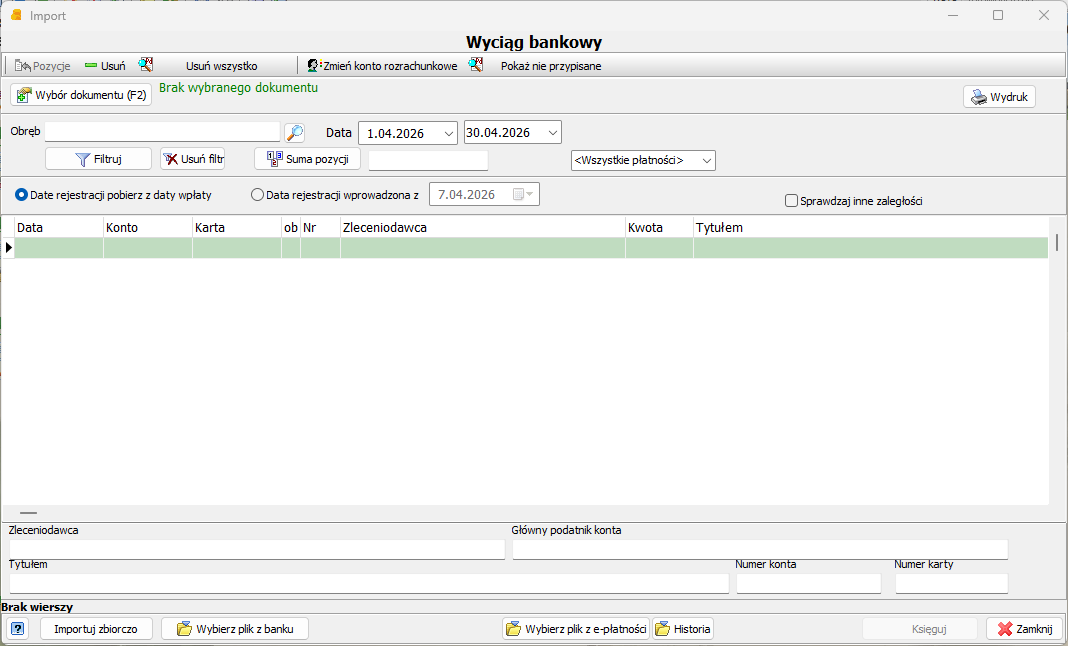
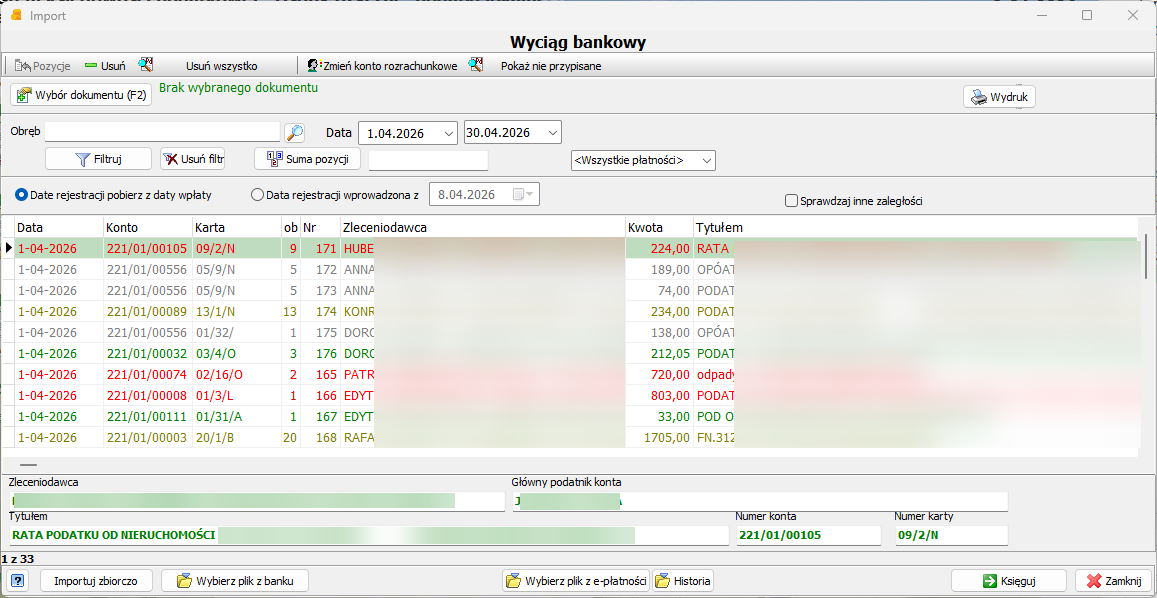
Gotowe_4

diff --git a/docs/import-export/wymiar.md b/docs/import-export/wymiar.md
@@ -1,16 +1,19 @@
 `Import/Eksport > Przyjęcie danych z wymiaru` 
 
 W zakresie wymiany danych o bieżącym stanie należności podatkowych program `PodatkiKS` współpracuje z systemem naliczającym. Informacje o otrzymanych paczkach danych są wyświetlane każdorazowo przy wejściu do programu lub poprzez wybór z menu `Import/Eksport` w opcji `Przyjęcie danych z wymiaru`.
+
 ![Import wymiaru](screeny\imp_wymiar.png)
 
-W tabeli wyświetlą się informacje o Nazwie, Numerze systemowym, Koncie, Dacie naliczenia i eksportu  oraz Opłata. 
+W tabeli wyświetlą się informacje o Nazwie, Numerze systemowym, Koncie, Dacie naliczenia i eksportu  oraz Opłacie. 
 
-Przesłane dane można przeglądać przy pomocy klawisza `Pozycje`. W wyświetlonej tabeli dostępne są infromacje o ratach należności podatkowych przesłanych z systemu naliczającego. 
+Przesłane dane można przeglądać po wyborze przycisku `Pozycje`. W wyświetlonej tabeli dostępne są informacje o ratach należności podatkowych przesłanych z systemu naliczającego. 
 
-Wczytanie danych powinno być porzedzone wskazaniem dokumentu do którego trafią przesłane dekrety. Po wykonaniu tej czynności można zaimportować zawarte w paczce informacje wybierając przycisk `Importuj`.
-W zależności od trybu pracy systemu wymiarowego, otrzymywane dokumenty mogą mieć status wymiaru lub zmiany.
+Wczytanie danych powinno być poprzedzone wskazaniem dokumentu, do którego trafią przesłane dekrety. Następnie należy zaimportować zawarte w paczce informacje wybierając przycisk `Importuj`.  
+W zależności od trybu pracy systemu wymiarowego, otrzymywane dokumenty mogą mieć status wymiaru lub zmiany.  
 W przypadku trybu `Wymiar` otrzymywane dokumenty określane są jako `ZB – zobowiązania`, a ponowne przesłanie dokumentów powoduje nakrycie poprzednich zapisów. Ma to olbrzymie znaczenie z punktu widzenia elastyczności systemu, ponieważ operator nie jest obciążony  wymogiem każdorazowego kasowania wcześniejszych dekretacji. 
 
 Podczas pracy systemu wymiarowego w trybie zmian otrzymywane dokumenty mają kod dekretacji `PR – Przypis` lub `OD – odpis`, są to zmiany wymiaru pierwotnego. Wczytywane zapisy są zaksięgowane do konta jako nowe dekrety uaktualniające stan należności podatnika wobec organu podatkowego.
 
-Przy trybie pracy - zmiany – systemu wymiarowego dokumenty nie są nadpisywane, każdorazowe przesłanie dokumentów na wybrane konto powoduje dopisanie tychże dekretów bez zmiany już istniejących.
+`Przy trybie pracy - zmiany – systemu wymiarowego dokumenty nie są nadpisywane, każdorazowe przesłanie dokumentów na wybrane konto powoduje dopisanie tychże dekretów bez zmiany już istniejących.`
+
+<br><br>

diff --git a/docs/import-export/bank.md b/docs/import-export/bank.md
@@ -1,13 +1,22 @@
 `Import/Eksport > Import z banku` 
 
-Wpłaty dokonane w banku mogą być automatycznie wprowadzane na konta indywidualne podatników za pośrednictwem elektronicznego wyciągu bankowego. Służy do tego opcja „Import z banku” w menu Import/Eksport. 
-
+Wpłaty dokonane w banku mogą być automatycznie wprowadzane na konta indywidualne podatników za pośrednictwem elektronicznego wyciągu bankowegow ramach funkcji `Import z banku`. 
 
 ![Okno importu](screeny\imp_bank.png)
 
-Pierwszą czynnością, którą należy wykonać jest wskazanie dokumentu do którego ma być przypisana wpłata - przycisk `Wybór dokumentu`. 
+Pierwszą czynnością powinno być zaczytanie pliku z banku na dany dzień - jeśli jeszcze nie został zaimportowanyu. Należy wybrać przycisk `Wybierz plik z banku` i wskazujemy plik przelewu. Po prawidłowym przetworzeniu pliku bankowego program wyświetli informacje o wpłatach. Ich format będzie się zmieniał w zależności od formatu pliku wybranego banku. 
 
-Następnie wybieramy przycisk `Wybierz plik z banku` i wskazujemy plik przelewu. Po wskazaniu pliku bankowego program wyświetli informacje o wpłatach, ich format będzie się zmieniał w zależności od formatu pliku wybranego banku. 
+Następnie należy wskazać dokument, do którego ma być przypisana wpłata - przycisk `Wybór dokumentu`. 
 
-Dalej wybieramy przycisk `Importuj zbiorczo`, wskazujemy rachunek i formę płatności - domyślnie ustawiony jest rachunek 130 i forma płatności: przelew, wybór zatwierdzamy, po czym następuje zaczytanie wpłat.
-Przed importem możliwe jest dokonanie modyfikacji co do sposobu rozksięgowania. Aby wejść w tryb edycji importowanej wpłaty należy nacisnąć przycisk `Pozycje`, podświetlić odpowiedni rekord a następnie nacisnąć klawisz `Popraw`. Program wyświetli formularz z kwotami, które można zmienić.
+
+Istnieje możliwość pojedcznego i zbiorczego księgowania wpłat.  
+
+- Księgowanie pojedyncze jest wywoływane przyciskiem `Księguj`, wybieranym po ustawieniu na konkretnej wpłacie. Na wyświetlonym oknie `Wpłata` wskazujemy szczegóły wpłaty, wybór zatwierdzamy, po czym następuje zaczytanie wpłaty.
+
+
+- Importuj zbiorczo - wyświetli się okno `Parametry dekretu` ![Parametry dekretu](screeny\imp_bank_dekret.png), po zatwierdzeniu zostaną zaksięgowane wszystkie wyświetlone na liście pozycje.
+
+
+Przycisk `Pokaż nieprzypisane` / `Pokaż przyjęte dla kontekstu` - pozwala na wyświetlenie / ukrycie pozycji z importu, do których nie zostało znalezione konto na podstawie NRB.  
+
+Suma pozycji - pozwala na zliczenie aktualinie przefiltrowanych - wyświetlanych pozycji.

diff --git a/docs/import-export/index.md b/docs/import-export/index.md
@@ -1,0 +1,6 @@
+W ramach programu można przeprowadzić wymianę danych poprzez import i eksport w następujących zakresach:
+- [Import danych z wymiaru](wymiar.md)
+- [Import wpłat z banku](bank.md)
+- [Import wpłat z kasy](kasa.md)
+- [Import wpłat z mObywatela](mobywatel.md)
+- [Eksport do systemu FK](fk.md)
